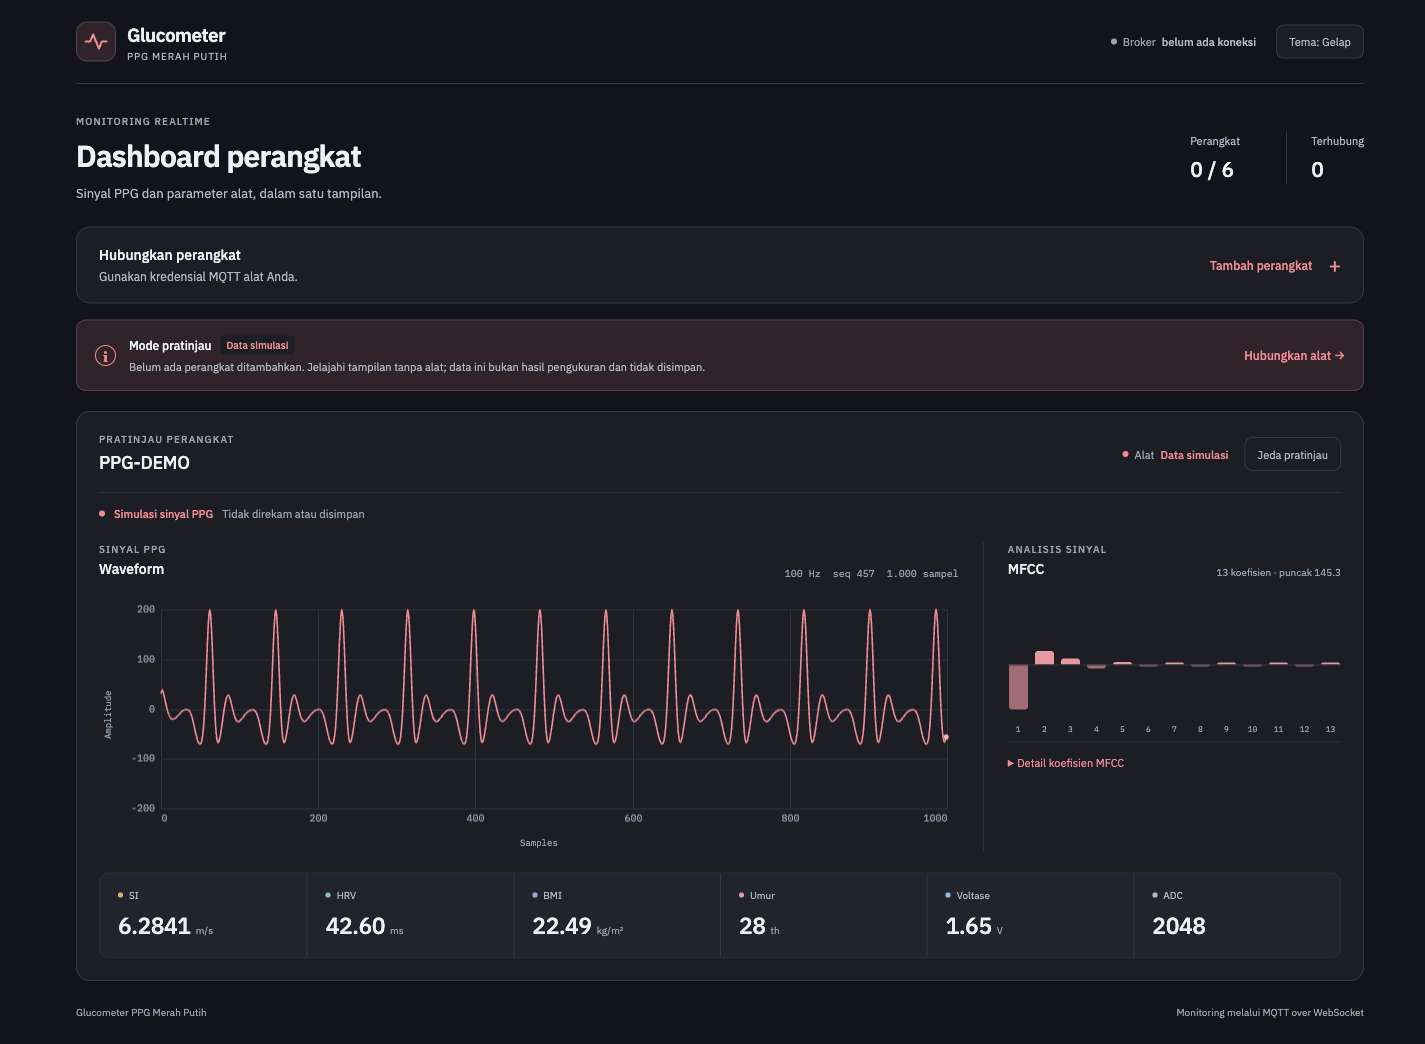
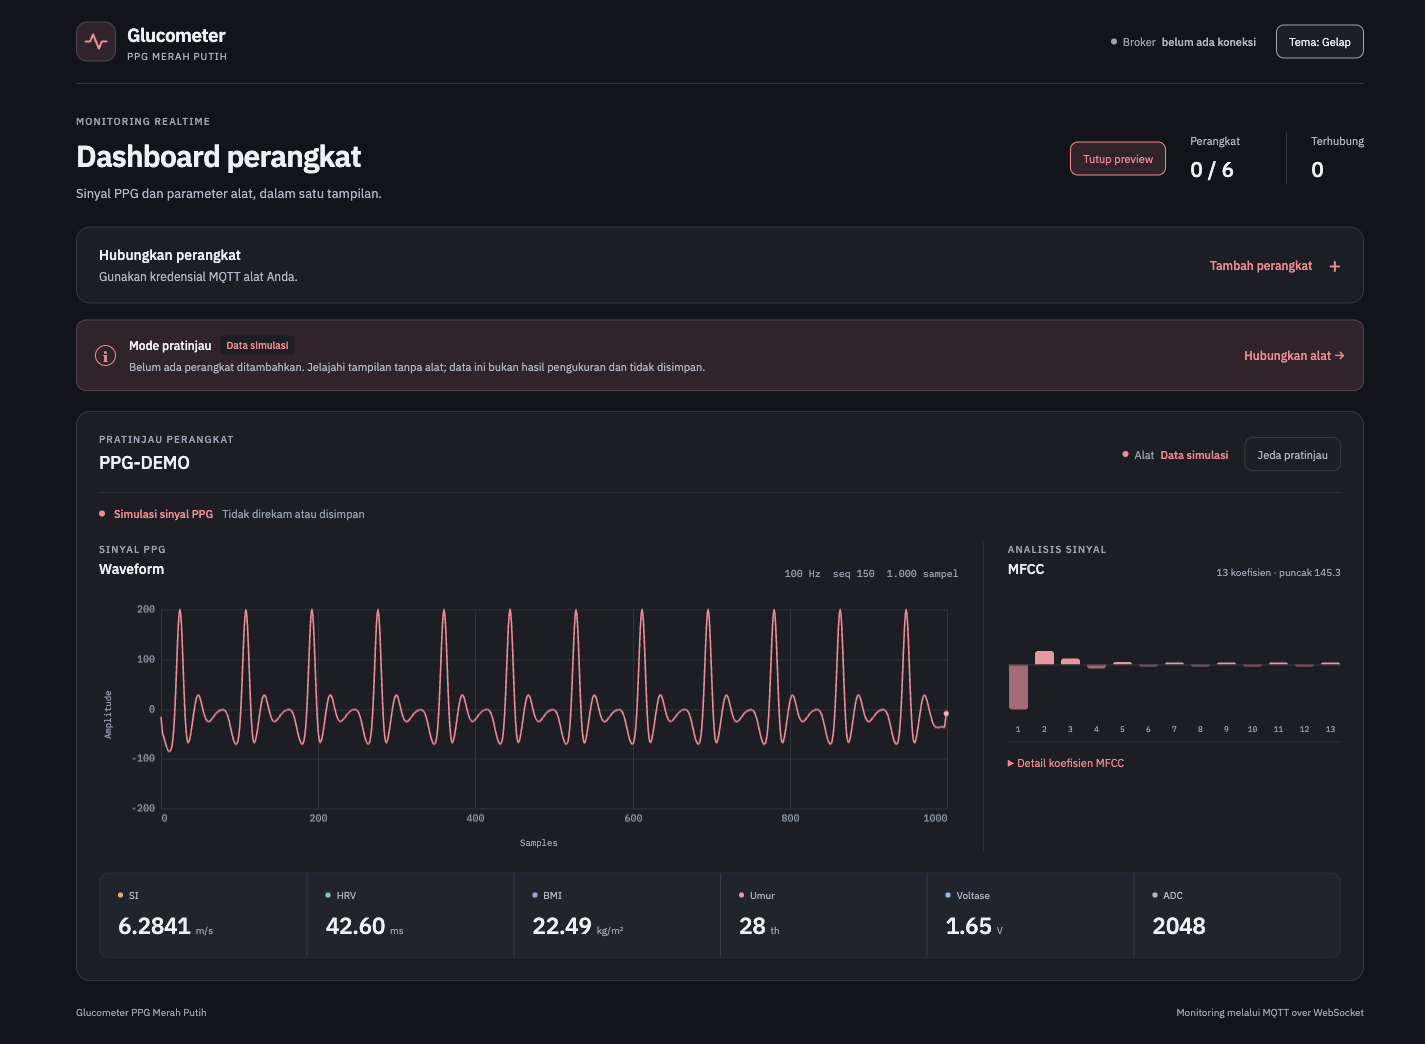
fix(frontend): show simulation preview only on request

Changed region(s): [[0.0926, 0.5824, 0.6793, 0.705], [0.7411, 0.1226, 0.8337, 0.1839], [0.8954, 0.0307, 0.9572, 0.0613]]

diff --git a/ppg-mqtt-system/frontend/index.html b/ppg-mqtt-system/frontend/index.html
@@ -8,7 +8,7 @@
     <link rel="preconnect" href="https://fonts.googleapis.com">
     <link rel="preconnect" href="https://fonts.gstatic.com" crossorigin>
     <link rel="stylesheet" href="https://fonts.googleapis.com/css2?family=IBM+Plex+Mono:wght@400;500&amp;family=IBM+Plex+Sans:wght@400;500;600&amp;display=swap">
-    <link rel="stylesheet" href="styles.css?v=20261020-preview">
+    <link rel="stylesheet" href="styles.css?v=20261021-manual-preview">
   </head>
   <body>
     <header class="topbar">
@@ -38,9 +38,12 @@
         <h1 id="page-title">Dashboard perangkat</h1>
         <p class="page-description">Sinyal PPG dan parameter alat, dalam satu tampilan.</p>
       </div>
-      <div class="topbar-chips" aria-label="Ringkasan koneksi">
-        <span class="chip"><span class="chip-key">Perangkat</span><span class="chip-val" id="chip-device">0 / 6</span></span>
-        <span class="chip" id="chip-mode-wrap" data-mode="idle"><span class="chip-key">Terhubung</span><span class="chip-val" id="chip-mode">0</span></span>
+      <div class="page-heading-actions">
+        <button type="button" class="ghost-btn" id="preview-button" aria-expanded="false" aria-controls="preview-notice dashboard-grid">Preview</button>
+        <div class="topbar-chips" aria-label="Ringkasan koneksi">
+          <span class="chip"><span class="chip-key">Perangkat</span><span class="chip-val" id="chip-device">0 / 6</span></span>
+          <span class="chip" id="chip-mode-wrap" data-mode="idle"><span class="chip-key">Terhubung</span><span class="chip-val" id="chip-mode">0</span></span>
+        </div>
       </div>
     </section>
 
@@ -80,7 +83,7 @@
       </span>
     </div>
 
-    <section class="preview-notice" id="dashboard-empty" aria-label="Informasi mode pratinjau">
+    <section class="preview-notice" id="preview-notice" aria-label="Informasi mode pratinjau" hidden>
       <span class="preview-symbol" aria-hidden="true">i</span>
       <div><h2>Mode pratinjau <span class="preview-badge">Data simulasi</span></h2>
         <p>Belum ada perangkat ditambahkan. Jelajahi tampilan tanpa alat; data ini bukan hasil pengukuran dan tidak disimpan.</p>
@@ -88,7 +91,15 @@
       <button class="text-btn" id="preview-connect" type="button">Hubungkan alat <span aria-hidden="true">&rarr;</span></button>
     </section>
 
-    <main class="dashboard-grid" id="dashboard-grid" aria-label="Dashboard perangkat PPG"></main>
+    <main class="dashboard-grid" id="dashboard-grid" aria-label="Dashboard perangkat PPG">
+      <section class="dashboard-empty" id="dashboard-empty" aria-labelledby="empty-title">
+        <span class="empty-symbol" aria-hidden="true">
+          <svg viewBox="0 0 24 24" fill="none"><path d="M3 12h4l2.5-6 5 12 2.5-6h4" stroke="currentColor" stroke-width="1.5" stroke-linecap="round" stroke-linejoin="round"/></svg>
+        </span>
+        <h2 id="empty-title">Belum ada perangkat</h2>
+        <p>Hubungkan alat untuk melihat data realtime, atau tekan tombol Preview untuk melihat tampilan simulasi.</p>
+      </section>
+    </main>
 
     <footer class="page-footer"><span>Glucometer PPG Merah Putih</span><span>Monitoring melalui MQTT over WebSocket</span></footer>
 
@@ -216,6 +227,6 @@
       crossorigin="anonymous"></script>
     <script src="waveform.js"></script>
     <script src="preview.js"></script>
-    <script src="app.js?v=20261020-preview"></script>
+    <script src="app.js?v=20261021-manual-preview"></script>
   </body>
 </html>

diff --git a/ppg-mqtt-system/frontend/app.js b/ppg-mqtt-system/frontend/app.js
@@ -49,6 +49,8 @@ const page = {
   form: el("conn-form"),
   connection: el("connection"),
   previewConnect: el("preview-connect"),
+  previewButton: el("preview-button"),
+  previewNotice: el("preview-notice"),
   username: el("username"),
   password: el("password"),
   deviceId: el("device-id"),
@@ -138,6 +140,26 @@ function hidePageAlert() {
   page.alert.hidden = true;
 }
 
+function stopPreview() {
+  clearInterval(previewTimer);
+  previewTimer = null;
+  previewDashboard?.destroy();
+  previewDashboard = null;
+}
+
+function togglePreview() {
+  if (dashboards.size > 0) return;
+  if (previewDashboard) {
+    stopPreview();
+  } else {
+    previewDashboard = new DeviceDashboard({ deviceId: "PPG-DEMO", preview: true });
+    previewTimer = setInterval(() => {
+      if (!document.hidden) previewDashboard?.advancePreview();
+    }, 100);
+  }
+  updateSummary();
+}
+
 function updateSummary() {
   const connected = [...dashboards.values()].filter(
     (dashboard) => dashboard.client?.connected,
@@ -157,18 +179,16 @@ function updateSummary() {
     page.lampBrokerText.textContent = "belum ada koneksi";
   }
 
-  page.empty.hidden = dashboards.size !== 0;
-  if (dashboards.size === 0 && !previewDashboard) {
-    previewDashboard = new DeviceDashboard({ deviceId: "PPG-DEMO", preview: true });
-    previewTimer = setInterval(() => {
-      if (!document.hidden) previewDashboard?.advancePreview();
-    }, 100);
-  } else if (dashboards.size > 0 && previewDashboard) {
-    clearInterval(previewTimer);
-    previewTimer = null;
-    previewDashboard.destroy();
-    previewDashboard = null;
-  }
+  if (dashboards.size > 0 && previewDashboard) stopPreview();
+  const previewVisible = Boolean(previewDashboard);
+  page.empty.hidden = dashboards.size !== 0 || previewVisible;
+  page.previewNotice.hidden = !previewVisible;
+  page.previewButton.textContent = previewVisible ? "Tutup preview" : "Preview";
+  page.previewButton.setAttribute("aria-expanded", String(previewVisible));
+  page.previewButton.disabled = dashboards.size > 0;
+  page.previewButton.title = dashboards.size > 0
+    ? "Putuskan seluruh panel perangkat untuk membuka preview."
+    : "Tampilkan atau tutup dashboard dengan data simulasi.";
   page.connectButton.disabled = dashboards.size >= MAX_DASHBOARDS;
 }
 
@@ -871,6 +891,7 @@ page.username.addEventListener("input", () => {
 page.themeToggle.addEventListener("click", () => {
   applyTheme(document.documentElement.dataset.theme === "light" ? "dark" : "light");
 });
+page.previewButton.addEventListener("click", togglePreview);
 page.previewConnect.addEventListener("click", () => {
   page.connection.open = true;
   page.deviceId.focus();
@@ -880,8 +901,7 @@ window.addEventListener("resize", () => {
   previewDashboard?.drawChart();
 });
 window.addEventListener("beforeunload", () => {
-  clearInterval(previewTimer);
-  previewDashboard?.destroy();
+  stopPreview();
   dashboards.forEach((dashboard) => dashboard.destroy());
 });
 

diff --git a/ppg-mqtt-system/frontend/styles.css b/ppg-mqtt-system/frontend/styles.css
@@ -103,6 +103,8 @@ button:focus-visible, input:focus-visible, summary:focus-visible {
 .page-heading { display: flex; align-items: center; justify-content: space-between; gap: 20px; padding: 30px 0 24px; }
 .page-heading h1 { margin: 4px 0 5px; font-size: clamp(24px, 2.5vw, 30px); font-weight: 600; letter-spacing: -0.8px; }
 .page-description { color: var(--text-dim); font-size: 13px; }
+.page-heading-actions { display: flex; align-items: center; gap: 24px; }
+#preview-button[aria-expanded="true"] { border-color: var(--accent); background: var(--accent-soft); color: var(--accent); }
 .topbar-chips { display: flex; align-items: center; gap: 24px; }
 .chip { display: grid; gap: 4px; min-width: 72px; }
 .chip + .chip { border-left: 1px solid var(--line); padding-left: 24px; }
@@ -151,6 +153,11 @@ input::placeholder { color: var(--text-faint); }
 .preview-badge { border-radius: 4px; padding: 2px 6px; background: var(--bg-panel); color: var(--accent); font-size: 10px; font-weight: 500; }
 .preview-notice .text-btn { margin-left: auto; }
 .dashboard-grid { display: grid; gap: 24px; }
+.dashboard-empty { display: grid; justify-items: center; gap: 10px; border: 1px solid var(--line); border-radius: var(--radius); padding: 52px 24px; background: var(--bg-panel); text-align: center; }
+.empty-symbol { display: grid; place-items: center; width: 48px; height: 48px; margin-bottom: 4px; border-radius: 14px; background: var(--bg-raised); color: var(--text-faint); }
+.empty-symbol svg { width: 30px; height: 30px; }
+.dashboard-empty h2 { font-size: 16px; font-weight: 500; }
+.dashboard-empty p { max-width: 48ch; color: var(--text-dim); font-size: 12px; }
 .device-dashboard { min-width: 0; border: 1px solid var(--line); border-radius: var(--radius); background: var(--bg-panel); box-shadow: 0 2px 6px #00000003; }
 .device-head { display: flex; align-items: center; justify-content: space-between; gap: 16px; padding: 20px 22px 16px; }
 .device-head h2 { margin-top: 2px; font-size: 18px; font-weight: 500; letter-spacing: -0.3px; }
@@ -263,7 +270,7 @@ input::placeholder { color: var(--text-faint); }
   .brand-mark { width: 34px; height: 36px; }
   .brand-subtitle { font-size: 8px; }
   .page-heading { display: block; padding-top: 23px; }
-  .topbar-chips { margin-top: 18px; }
+  .page-heading-actions { justify-content: space-between; gap: 16px; margin-top: 18px; }
   .chip { display: flex; align-items: baseline; gap: 12px; min-width: 0; }
   .chip-val { font-size: 16px; }
   .connection-head { padding: 15px 16px; gap: 12px; }

diff --git a/ppg-mqtt-system/tests/test_frontend_ui.py b/ppg-mqtt-system/tests/test_frontend_ui.py
@@ -30,7 +30,7 @@ class FrontendUiContractTest(unittest.TestCase):
                     with self.subTest(theme=theme, foreground=foreground, background=background):
                         self.assertGreaterEqual((right + 0.05) / (left + 0.05), 4.5)
 
-    def test_preview_is_automatic_and_separate_from_real_devices(self):
+    def test_preview_is_manual_and_separate_from_real_devices(self):
         html = (FRONTEND / "index.html").read_text(encoding="utf-8")
         javascript = (FRONTEND / "app.js").read_text(encoding="utf-8")
 
@@ -40,18 +40,105 @@ class FrontendUiContractTest(unittest.TestCase):
         self.assertIn('<script src="preview.js"></script>', html)
         self.assertIn('      async\n      src="https://unpkg.com/mqtt@', html)
         self.assertIn('id="preview-connect"', html)
+        self.assertIn('id="preview-button" aria-expanded="false"', html)
+        self.assertRegex(html, r'id="preview-notice"[^>]*\bhidden')
+        self.assertIn('Belum ada perangkat', html)
         self.assertIn('data-role="preview-toggle"', html)
-        self.assertIn('dashboards.size === 0 && !previewDashboard', javascript)
+        self.assertIn('function togglePreview()', javascript)
+        self.assertIn('page.previewButton.addEventListener("click", togglePreview);', javascript)
         self.assertIn('if (preview) this.startPreview();', javascript)
         self.assertIn('else this.connect(password);', javascript)
         self.assertIn('clearInterval(previewTimer);', javascript)
-        self.assertIn('previewDashboard.destroy();', javascript)
+        self.assertIn('previewDashboard?.destroy();', javascript)
         self.assertIn('this.ui["device-more"].hidden = true;', javascript)
         self.assertIn('this.ui["broker-lamp"].hidden = true;', javascript)
         self.assertIn('if (!document.hidden)', javascript)
         self.assertIn('if (this.previewPaused || this.closed) return;', javascript)
         self.assertIn('prefers-reduced-motion: reduce', javascript)
         self.assertIn('typeof mqtt === "undefined"', javascript)
+
+    @unittest.skipUnless(shutil.which("node"), "Node.js diperlukan untuk uji kontrol preview")
+    def test_preview_lifecycle_requires_explicit_user_action(self):
+        script = """
+            const assert = require('node:assert/strict');
+            const fs = require('node:fs');
+            const vm = require('node:vm');
+            const source = fs.readFileSync(process.argv[1], 'utf8');
+            const controller = source.slice(source.indexOf('function stopPreview()'),
+                                            source.indexOf('function drawWaveform('));
+            const timers = new Map();
+            const created = [];
+            let nextTimer = 0;
+            const page = Object.fromEntries([
+                'chipDevice', 'chipMode', 'chipModeWrap', 'lampBroker', 'lampBrokerText',
+                'empty', 'previewNotice', 'previewButton', 'connectButton',
+            ].map(name => [name, {dataset: {}, setAttribute(key, value) {this[key] = value;}}]));
+            const context = vm.createContext({
+                page, document: {hidden: false}, dashboards: new Map(), MAX_DASHBOARDS: 6,
+                setInterval(callback, delay) {
+                    assert.equal(delay, 100);
+                    timers.set(++nextTimer, callback);
+                    return nextTimer;
+                },
+                clearInterval(id) {timers.delete(id);},
+                DeviceDashboard: class {
+                    constructor(options) {
+                        assert.equal(options.preview, true);
+                        this.frames = 0;
+                        created.push(this);
+                    }
+                    destroy() {this.destroyed = true;}
+                    advancePreview() {this.frames++;}
+                },
+            });
+            const run = code => vm.runInContext(code, context);
+            run('let previewDashboard = null; let previewTimer = null;' + controller);
+            run('updateSummary();');
+            assert.equal(created.length, 0);
+            assert.equal(timers.size, 0);
+            assert.equal(page.empty.hidden, false);
+            assert.equal(page.previewNotice.hidden, true);
+            assert.equal(page.previewButton['aria-expanded'], 'false');
+
+            run('togglePreview(); updateSummary();');
+            assert.equal(created.length, 1);
+            assert.equal(timers.size, 1);
+            assert.equal(page.empty.hidden, true);
+            assert.equal(page.previewNotice.hidden, false);
+            assert.equal(page.previewButton.textContent, 'Tutup preview');
+            assert.equal(page.previewButton['aria-expanded'], 'true');
+            timers.get(nextTimer)();
+            assert.equal(created[0].frames, 1);
+            context.document.hidden = true;
+            timers.get(nextTimer)();
+            assert.equal(created[0].frames, 1);
+
+            run('togglePreview();');
+            assert.equal(created[0].destroyed, true);
+            assert.equal(timers.size, 0);
+            assert.equal(page.empty.hidden, false);
+            assert.equal(page.previewButton.textContent, 'Preview');
+
+            run('togglePreview();');
+            context.dashboards.set('PPG-TEST', {client: {connected: true}});
+            run('updateSummary(); togglePreview();');
+            assert.equal(created.length, 2);
+            assert.equal(created[1].destroyed, true);
+            assert.equal(timers.size, 0);
+            assert.equal(page.previewButton.disabled, true);
+            assert.equal(page.previewNotice.hidden, true);
+
+            context.dashboards.clear();
+            run('updateSummary();');
+            assert.equal(created.length, 2);
+            assert.equal(timers.size, 0);
+            assert.equal(page.empty.hidden, false);
+            assert.equal(page.previewButton.disabled, false);
+        """
+        subprocess.run(
+            ["node", "-e", script, str(FRONTEND / "app.js")],
+            check=True, capture_output=True, text=True,
+        )
 
     @unittest.skipUnless(shutil.which("node"), "Node.js diperlukan untuk uji pratinjau")
     def test_preview_signal_is_finite_deterministic_and_matches_chart_range(self):

diff --git a/ppg-mqtt-system/README.md b/ppg-mqtt-system/README.md
@@ -279,8 +279,10 @@ http://IP_SERVER:9100
 
 Jika `FRONTEND_PORT` diubah pada `.env`, gunakan port tersebut pada URL.
 
-Halaman awal menampilkan pratinjau otomatis `PPG-DEMO` sebelum perangkat
-ditambahkan. Waveform, enam parameter, dan 13 koefisien MFCC memakai data
+Halaman awal tidak menampilkan perangkat simulasi. Tekan **Preview** untuk
+membuka pratinjau `PPG-DEMO`, lalu **Tutup preview** untuk menutupnya. Pilihan
+ini tidak disimpan; setelah halaman dimuat ulang, preview kembali tertutup.
+Waveform, enam parameter, dan 13 koefisien MFCC pada preview memakai data
 simulasi yang diberi label, bukan hasil pengukuran. Pratinjau tidak membuat
 koneksi MQTT, tidak memublikasikan pesan, tidak membuat sesi perekaman, dan
 tidak menyimpan data ke database. Animasi dapat dijeda dan otomatis dijeda
@@ -289,7 +291,9 @@ untuk pengguna dengan preferensi pengurangan gerakan.
 Buka **Hubungkan perangkat** atau tombol **Hubungkan alat** untuk menampilkan
 form Device ID, Username, dan Password. Pratinjau dihentikan serta dihapus
 saat perangkat ditambahkan agar data simulasi tidak tercampur dengan data
-alat. Setelah semua panel perangkat diputuskan, pratinjau muncul kembali.
+alat. Saat panel perangkat aktif, tombol Preview dinonaktifkan. Setelah
+semua panel perangkat diputuskan, halaman kembali ke keadaan kosong dan
+preview hanya muncul jika tombol **Preview** ditekan lagi.
 Grafik MFCC tersedia langsung di samping waveform; buka **Detail koefisien
 MFCC** untuk melihat nilai C01 sampai C13. Hasil perekaman dan diagnostik MQTT
 tersedia melalui panel terpisah yang dapat dibuka. Tema terang dan gelap
